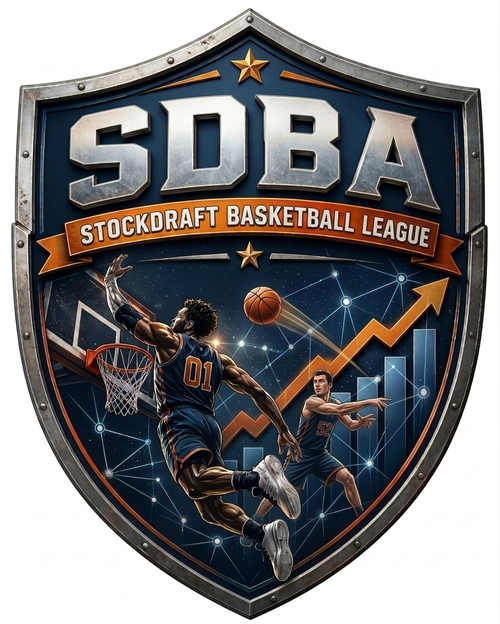
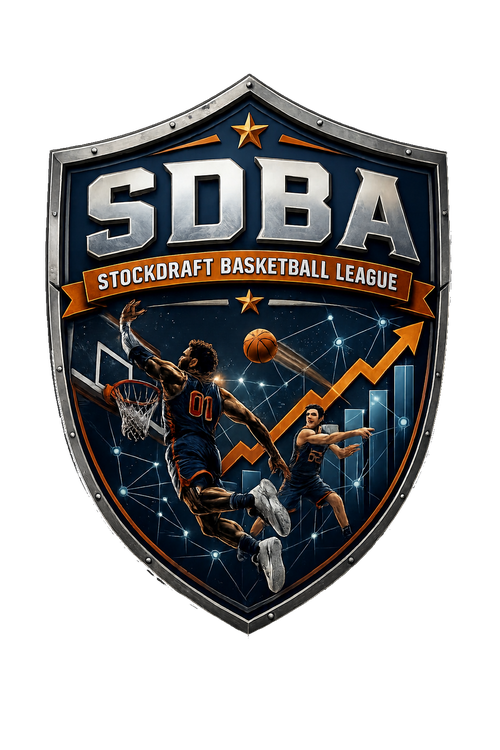
Replace sports-sim league shields with transparent-background art
SDFL/SDBA shields had solid off-white/grey backgrounds baked in, which
showed as an ugly box on league cards. Reprocessed all four shields
(SDFL, SDBA, SDHL, SDLB) with the background removed and swapped in
the transparent versions, resizing to the existing 500px-width
convention. Also wires up logoSrc for SDHL/SDLB, which had no artwork
before now and fell back to a placeholder label.

diff --git a/src/lib/league/league-config.ts b/src/lib/league/league-config.ts
@@ -29,25 +29,25 @@ export const SPORTS_LEAGUE_FORMATS = [
     id: "sdfl",
     label: "SDFL",
     description: "StockDraft Football League",
-    logoSrc: "/images/leagues/sdfl.png",
+    logoSrc: "/images/leagues/sdfl.png" as string | null,
   },
   {
     id: "sdhl",
     label: "SDHL",
     description: "StockDraft Hockey League",
-    logoSrc: null,
+    logoSrc: "/images/leagues/sdhl.png" as string | null,
   },
   {
     id: "sdba",
     label: "SDBA",
     description: "StockDraft Basketball Association",
-    logoSrc: "/images/leagues/sdba.png",
+    logoSrc: "/images/leagues/sdba.png" as string | null,
   },
   {
     id: "sdlb",
     label: "SDLB",
     description: "StockDraft League Baseball",
-    logoSrc: null,
+    logoSrc: "/images/leagues/sdlb.png" as string | null,
   },
 ] as const;
 